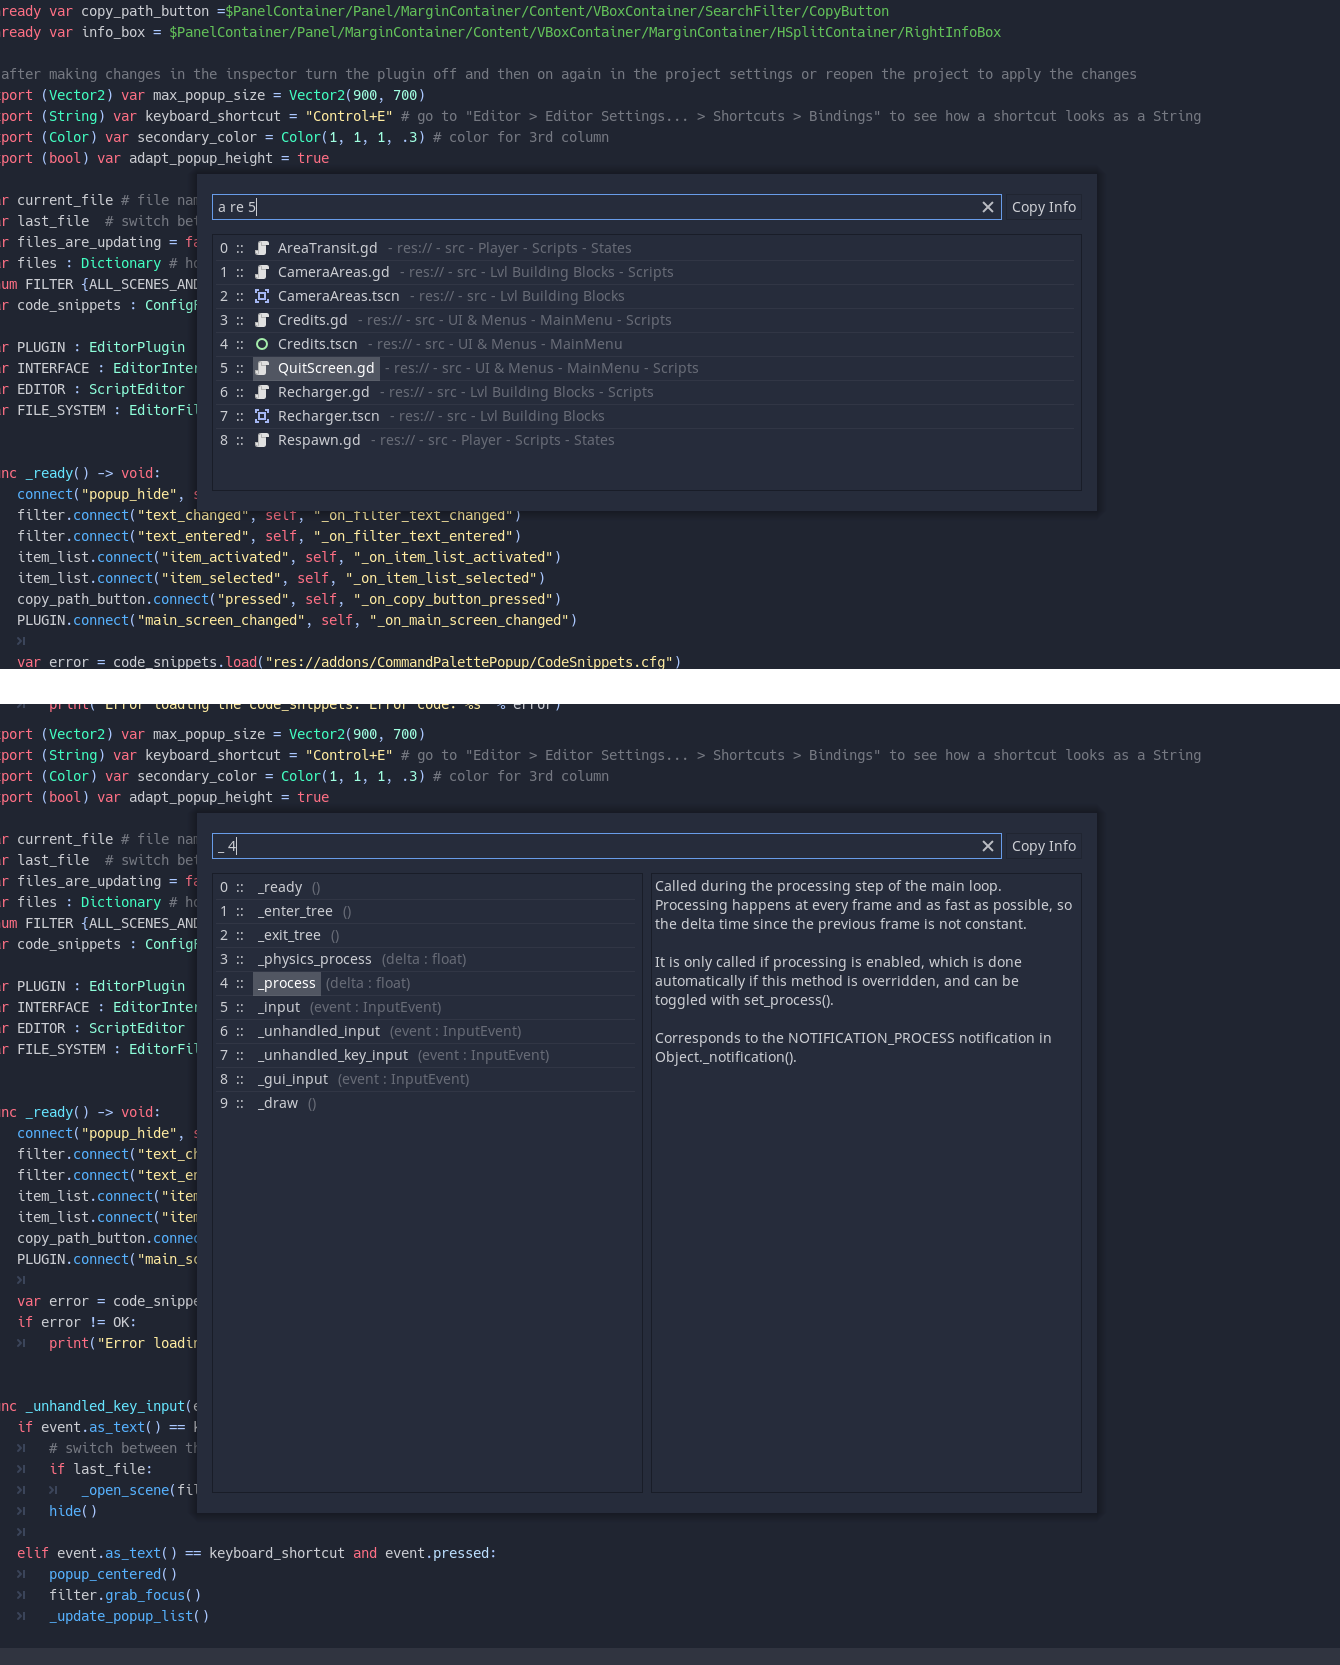
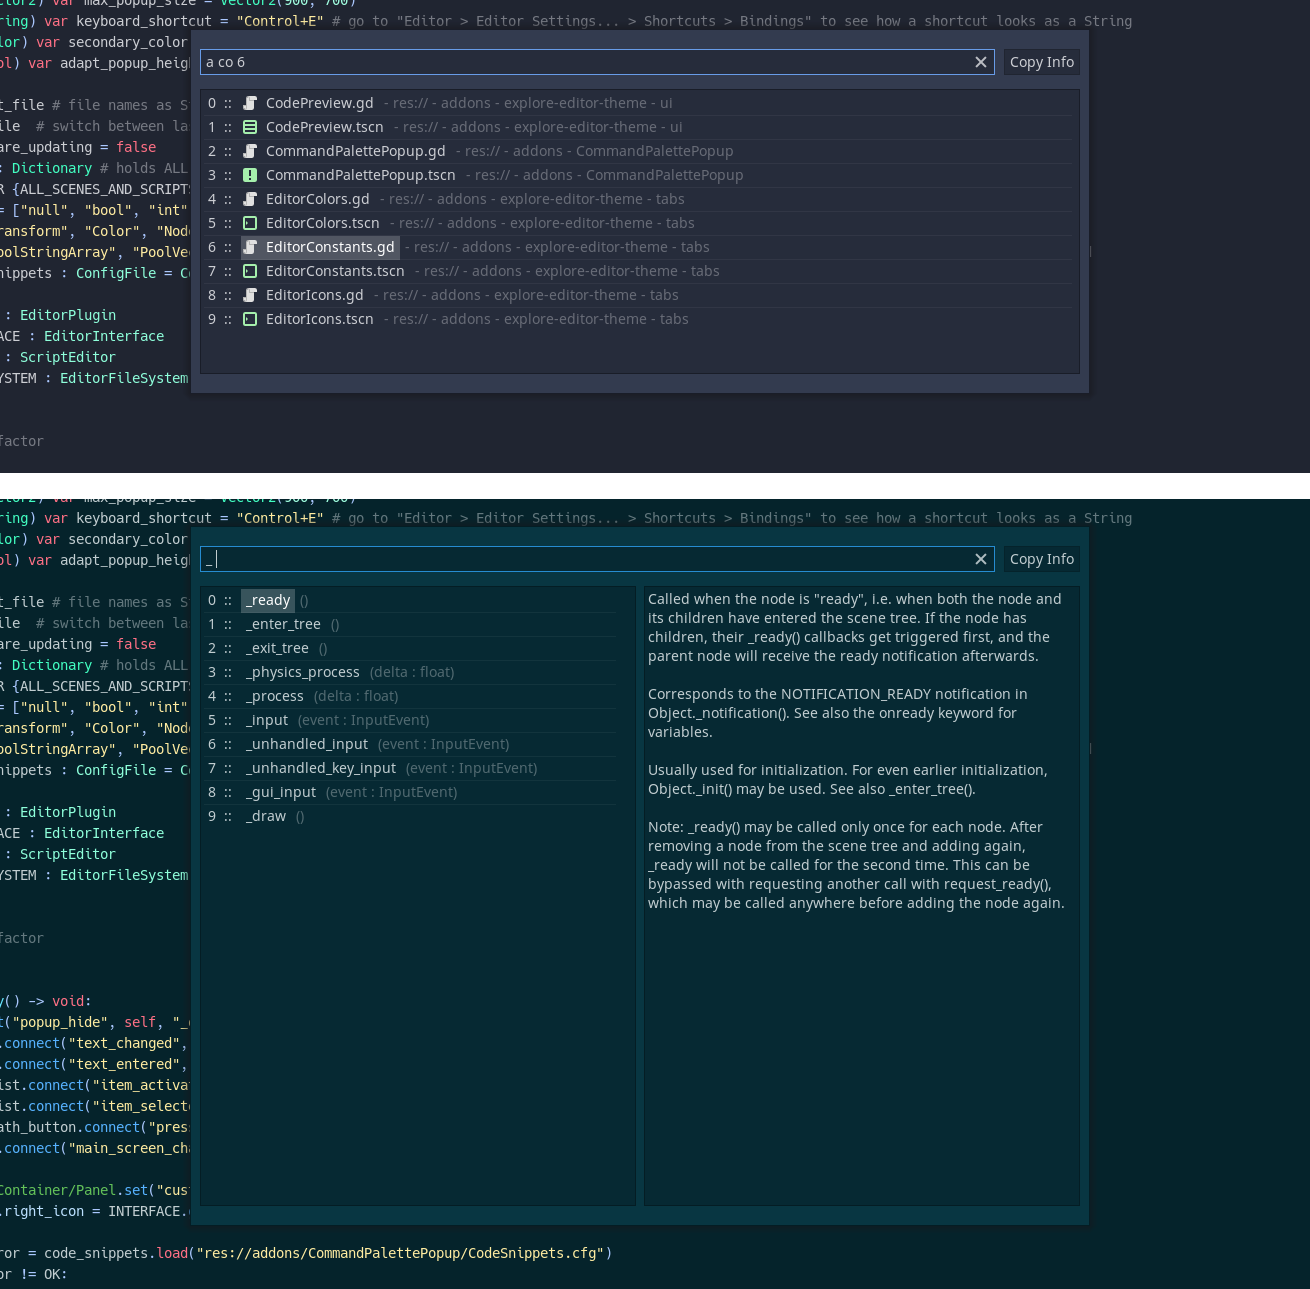
better theming

diff --git a/README.md b/README.md
@@ -14,7 +14,7 @@ This plugin for the Godot game engine 3.2.X adds a global keyboard shortcut to a
 - Starting the search-string with \"s \" (s for scene) will show all OPEN scenes.
 - Starting the search_string with \"ac \" or \"ca \" will show ALL SCRIPTS.
 - Starting the search_string with \"as \" or \"sa \" will show ALL SCENES.
-- Starting the seartch_string with \"sig \" will list all signals of the current scene root. Activating a signal will insert it at the cursor position with the cursor position moving to the signal target. The signal method will be copied to the clipboard.
+- Starting the search_string with \"sig \" will list all signals of the current scene root. Activating a signal will insert it at the cursor position with the cursor position moving to the signal target. The signal method will be copied to the clipboard.
 - Starting the search_string with \": \" followed by an integer will jump to that line in the script editor.
 - Starting the search_string with \"_ \" will show the available code snippets. Activating a snippet will insert it at the cursor position. Custom snippets can be created by editing CodeSnippets.cfg. Follow the key naming scheme. Take a look at _paste_code_snippet(), if you want to know how the snippet parts are merged. By default a few virtual methods are implemented.
 - Ending the search_string with " e" when using the code snippets, will insert the snippet at the end of the file (instead of at the cursor position).
